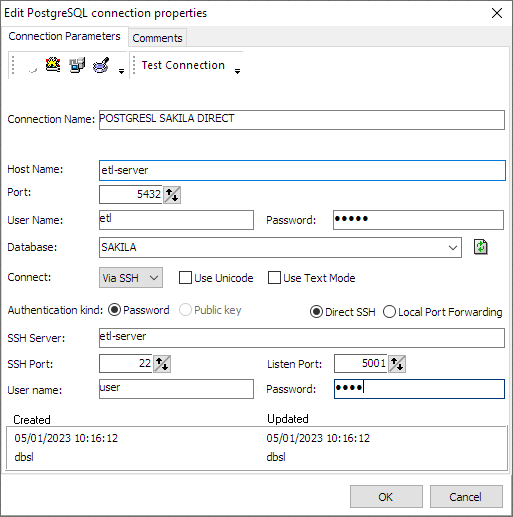
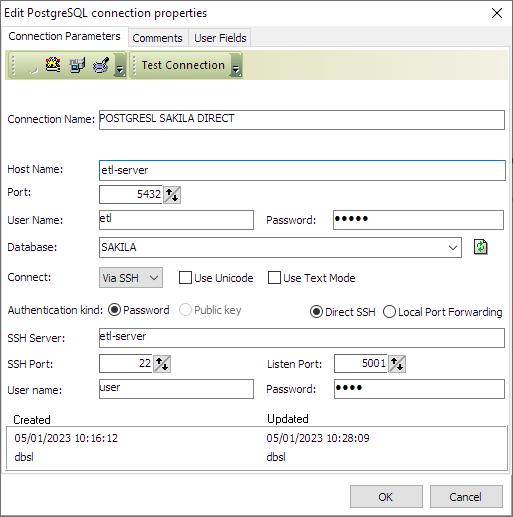
Connection screenshot update

diff --git a/content/en/docs/advanced-etl-processor/getting-started/user-interface.md b/content/en/docs/advanced-etl-processor/getting-started/user-interface.md
@@ -4,7 +4,7 @@ title: User Interface
 description: Advanced ETL Processor User Interface
 draft: false
 tags: ['Transforming Data', 'Introduction']
-date: 2022-08-01
+date: 2023-07-06
 group: advanced-etl-processor-enterprise
 menu: advanced-etl-processor-enterprise
 weight: 6000
@@ -97,9 +97,15 @@ To create a new object group select the appropriate object type for example tran
 
 Depending on the object type, the appropriate dialogue will be presented. In this example, the Transformation Group has been selected. The dialogue, in this case, requests a description and comment about the object to be created. Some of the fields in a dialogue of this type will be mandatory and will, therefore, have to be entered. However, comments will be optional, and just provide the user with the ability to specify more detail about an object and what it does.
 
-{{< image class="mx-auto d-block"  src="/images/etl/advanced-etl-processor/transformation-properties.png" title="Transformation Properties" >}}
+{{< image class="mx-auto d-block"  src="/images/etl/advanced-etl-processor/transformation-properties.png" title="Transformation Group Properties" >}}
 \
-{{< image class="mx-auto d-block"  src="/images/etl/advanced-etl-processor/transformation-properties-comments.png" title="Transformation Comments" >}}
+{{< image class="mx-auto d-block"  src="/images/etl/advanced-etl-processor/transformation-properties-comments.png" title="Transformation Group Comments" >}}
+\
+{{< image class="mx-auto d-block"  src="/images/etl/advanced-etl-processor/transformation-properties-user-fields.png" title="Transformation Group User Fields" >}}
+\
+{{< alert color="secondary" >}}
+**Note:** User fields provide a convenient way of storing additional data
+{{< /alert >}}
 
 ## Status Bar
 

diff --git a/content/en/docs/advanced-etl-processor/connections/database/oledb.md b/content/en/docs/advanced-etl-processor/connections/database/oledb.md
@@ -16,11 +16,23 @@ OLE DB (Object Linking and Embedding, Database, sometimes written as OLEDB or OL
 
 ## Connection
 
-{{< image class="mx-auto d-block" src="/images/etl/advanced-etl-processor/connections/oledb.png" title="Creating Ole DB connection" >}}
+{{< image class="mx-auto d-block" src="/images/etl/advanced-etl-processor/connections/oledb.png" title="Ole DB connection" >}}
 \
 {{< image class="mx-auto d-block" src="/images/etl/advanced-etl-processor/connections/oledb-connection.png" title="Creating Ole DB connection" >}}
 \
 {{< image class="mx-auto d-block" src="/images/etl/advanced-etl-processor/connections/oledb-connection1.png" title="Creating Ole DB connection" >}}
+
+## Comments
+
+{{< image class="mx-auto d-block"  src="/images/etl/advanced-etl-processor/connections/oledb-connection-comments.png" title="Ole DB Comments" >}}
+
+## User fields
+
+{{< image class="mx-auto d-block"  src="/images/etl/advanced-etl-processor/connections/oledb-connection-user-fields.png" title="Ole DB User Fields" >}}
+\
+{{< alert color="secondary" >}}
+**Note:** User fields provide a convenient way of storing additional data
+{{< /alert >}}
 
 ## Creating New Ole DB connection
 

diff --git a/content/en/docs/advanced-etl-processor/connections/database/sqlite.md b/content/en/docs/advanced-etl-processor/connections/database/sqlite.md
@@ -18,12 +18,6 @@ SQLite is a software library that implements a self-contained, serverless, zero-
 
 {{< image class="mx-auto d-block" src="/images/etl/advanced-etl-processor/connections/sqlite.png" title="SQLite Connection" >}}
 
-## Creating New Connection
-
-- In the Name Text Box type in a new name for the SQLite connection you are about to create
-- Select Database name
-- Click OK to close the connection properties window
-
 ## Comments
 
 {{< image class="mx-auto d-block"  src="/images/etl/advanced-etl-processor/connections/sqlite-connection-comments.png" title="SQLite Comments" >}}
@@ -35,5 +29,11 @@ SQLite is a software library that implements a self-contained, serverless, zero-
 {{< alert color="secondary" >}}
 **Note:** User fields provide a convenient way of storing additional data
 {{< /alert >}}
+
+## Creating New Connection
+
+- In the Name Text Box type in a new name for the SQLite connection you are about to create
+- Select Database name
+- Click OK to close the connection properties window
 
 {{< aetl >}}

diff --git a/content/en/docs/advanced-etl-processor/connections/database/odbc.md b/content/en/docs/advanced-etl-processor/connections/database/odbc.md
@@ -32,7 +32,19 @@ Thanks to the long period of existence and the fruitful efforts of its team of d
 
 ## Connection
 
-{{< image class="mx-auto d-block" src="/images/etl/advanced-etl-processor/connections/odbc.png" title="ODBC" >}}
+{{< image class="mx-auto d-block" src="/images/etl/advanced-etl-processor/connections/odbc.png" title="ODBC Connection" >}}
+
+## Comments
+
+{{< image class="mx-auto d-block"  src="/images/etl/advanced-etl-processor/connections/odbc-connection-comments.png" title="ODBC Connection Comments" >}}
+
+## User fields
+
+{{< image class="mx-auto d-block"  src="/images/etl/advanced-etl-processor/connections/odbc-connection-user-fields.png" title="ODBC Connection User Fields" >}}
+\
+{{< alert color="secondary" >}}
+**Note:** User fields provide a convenient way of storing additional data
+{{< /alert >}}
 
 ## Creating New Connection
 

diff --git a/content/en/docs/advanced-etl-processor/connections/database/postgresql.md b/content/en/docs/advanced-etl-processor/connections/database/postgresql.md
@@ -28,6 +28,18 @@ There are three ways of connecting to PostgreSQL: Direct, Via SSL and Via SSH
 \
 {{< image class="mx-auto d-block" src="/images/etl/advanced-etl-processor/connections/postgresql3.png" title="Creating PostgreSQL connection" >}}
 
+## Comments
+
+{{< image class="mx-auto d-block"  src="/images/etl/advanced-etl-processor/connections/postgresql-connection-comments.png" title="PostgreSQL Comments" >}}
+
+## User fields
+
+{{< image class="mx-auto d-block"  src="/images/etl/advanced-etl-processor/connections/postgresql-connection-user-fields.png" title="PostgreSQL User Fields" >}}
+\
+{{< alert color="secondary" >}}
+**Note:** User fields provide a convenient way of storing additional data
+{{< /alert >}}
+
 ## Creating New Connection
 
 - In the Name Text Box type in a new name for the connection you are about to create

diff --git a/content/en/docs/advanced-etl-processor/connections/database/mysql.md b/content/en/docs/advanced-etl-processor/connections/database/mysql.md
@@ -34,6 +34,18 @@ There are three ways of connecting to My SQL: Direct, Via SSL and Via SSH
 \
 {{< image class="mx-auto d-block" src="/images/etl/advanced-etl-processor/connections/mysql3.png" title="Creating MySQL/MariaDB Connection" >}}
 
+## Comments
+
+{{< image class="mx-auto d-block"  src="/images/etl/advanced-etl-processor/connections/mysql-connection-comments.png" title="MySQL/MariaDB Comments" >}}
+
+## User fields
+
+{{< image class="mx-auto d-block"  src="/images/etl/advanced-etl-processor/connections/mysql-connection-user-fields.png" title="MySQL/MariaDB User Fields" >}}
+\
+{{< alert color="secondary" >}}
+**Note:** User fields provide a convenient way of storing additional data
+{{< /alert >}}
+
 ## Creating New Connection
 
 - In the Name Text Box type in a new name for the connection you are about to create

diff --git a/content/en/docs/advanced-etl-processor/connections/database/oracle.md b/content/en/docs/advanced-etl-processor/connections/database/oracle.md
@@ -18,6 +18,18 @@ For an Oracle connection, you will need to specify the TNS name required and pro
 \
 {{< alert color="secondary">}}It is also possible to use Oracle instant client syntax: servername:1521/ORCL{{< /alert >}}
 
+## Comments
+
+{{< image class="mx-auto d-block"  src="/images/etl/advanced-etl-processor/connections/oracle-connection-comments.png" title="Oracle Connection Comments" >}}
+
+## User fields
+
+{{< image class="mx-auto d-block"  src="/images/etl/advanced-etl-processor/connections/oracle-connection-user-fields.png" title="Oracle Connection User Fields" >}}
+\
+{{< alert color="secondary" >}}
+**Note:** User fields provide a convenient way of storing additional data
+{{< /alert >}}
+
 ## Creating New Connection
 
 - In the Name Text Box type in a new name for the connection you are about to create

diff --git a/content/en/docs/advanced-etl-processor/connections/database/mongodb.md b/content/en/docs/advanced-etl-processor/connections/database/mongodb.md
@@ -30,6 +30,18 @@ There are three ways of connecting to MongoDB: Direct, Via SSL and Via SSH
 \
 {{< image class="mx-auto d-block" src="/images/etl/advanced-etl-processor/connections/mongodb-connection3.png" title="MongoDB Connection" >}}
 
+## Comments
+
+{{< image class="mx-auto d-block"  src="/images/etl/advanced-etl-processor/connections/mongodb-connection-comments.png" title="MongoDB Comments" >}}
+
+## User fields
+
+{{< image class="mx-auto d-block"  src="/images/etl/advanced-etl-processor/connections/mongodb-connection-user-fields.png" title="MongoDB User Fields" >}}
+\
+{{< alert color="secondary" >}}
+**Note:** User fields provide a convenient way of storing additional data
+{{< /alert >}}
+
 ## Creating New Connection
 
 - In the Name Text Box type in a new name for the connection you are about to create

diff --git a/content/en/docs/advanced-etl-processor/connections/database/bde.md b/content/en/docs/advanced-etl-processor/connections/database/bde.md
@@ -45,6 +45,18 @@ BDE is no longer supported by Embacadero.{{< /alert >}}
 
 {{< image class="mx-auto d-block" src="/images/etl/advanced-etl-processor/connections/bde-connection.png" title="Creating a BDE connection" >}}
 
+## Comments
+
+{{< image class="mx-auto d-block"  src="/images/etl/advanced-etl-processor/connections/bde-connection-comments.png" title="BDE Comments" >}}
+
+## User fields
+
+{{< image class="mx-auto d-block"  src="/images/etl/advanced-etl-processor/connections/bde-connection-user-fields.png" title="BDE User Fields" >}}
+\
+{{< alert color="secondary" >}}
+**Note:** User fields provide a convenient way of storing additional data
+{{< /alert >}}
+
 ## Creating a BDE connection
 
 - In the Name Text Box type in a new name for the BDE connection you are about to create

diff --git a/content/en/docs/advanced-etl-processor/sql-scripts.md b/content/en/docs/advanced-etl-processor/sql-scripts.md
@@ -4,7 +4,7 @@ title: SQL Scripts
 description: SQL Scripts
 draft: false
 tags: ['SQL']
-date: 2022-04-14
+date: 2023-07-06
 group: advanced-etl-processor-enterprise
 menu: advanced-etl-processor-enterprise
 layout: docs
@@ -20,6 +20,10 @@ layout: docs
 ## SQL Script
 
 {{< image class="mx-auto d-block"  src="/images/etl/advanced-etl-processor/sql-script-run.png" title="SQL Script" >}}
+\
+{{< alert color="danger" >}}
+**Note:** Please always remove comments from SQL  
+{{< /alert >}}
 
 ## Tool Bar
 

diff --git a/content/en/docs/advanced-etl-processor/reports.md b/content/en/docs/advanced-etl-processor/reports.md
@@ -4,7 +4,7 @@ title: Report
 description: A report provides the end-user with the ability to view data as a neatly formatted presentation of data.
 draft: false
 tags: ['Report']
-date: 2023-01-12
+date: 2023-07-06
 group: advanced-etl-processor-enterprise
 menu: advanced-etl-processor-enterprise
 layout: docs

diff --git a/content/en/docs/advanced-etl-processor/lookups.md b/content/en/docs/advanced-etl-processor/lookups.md
@@ -4,7 +4,7 @@ title: Lookups
 description: Lookups allow the users to edit data manually in any database
 draft: false
 tags: ['Lookups']
-date: 2022-09-17
+date: 2023-07-06
 group: advanced-etl-processor-enterprise
 menu: advanced-etl-processor-enterprise
 layout: docs
